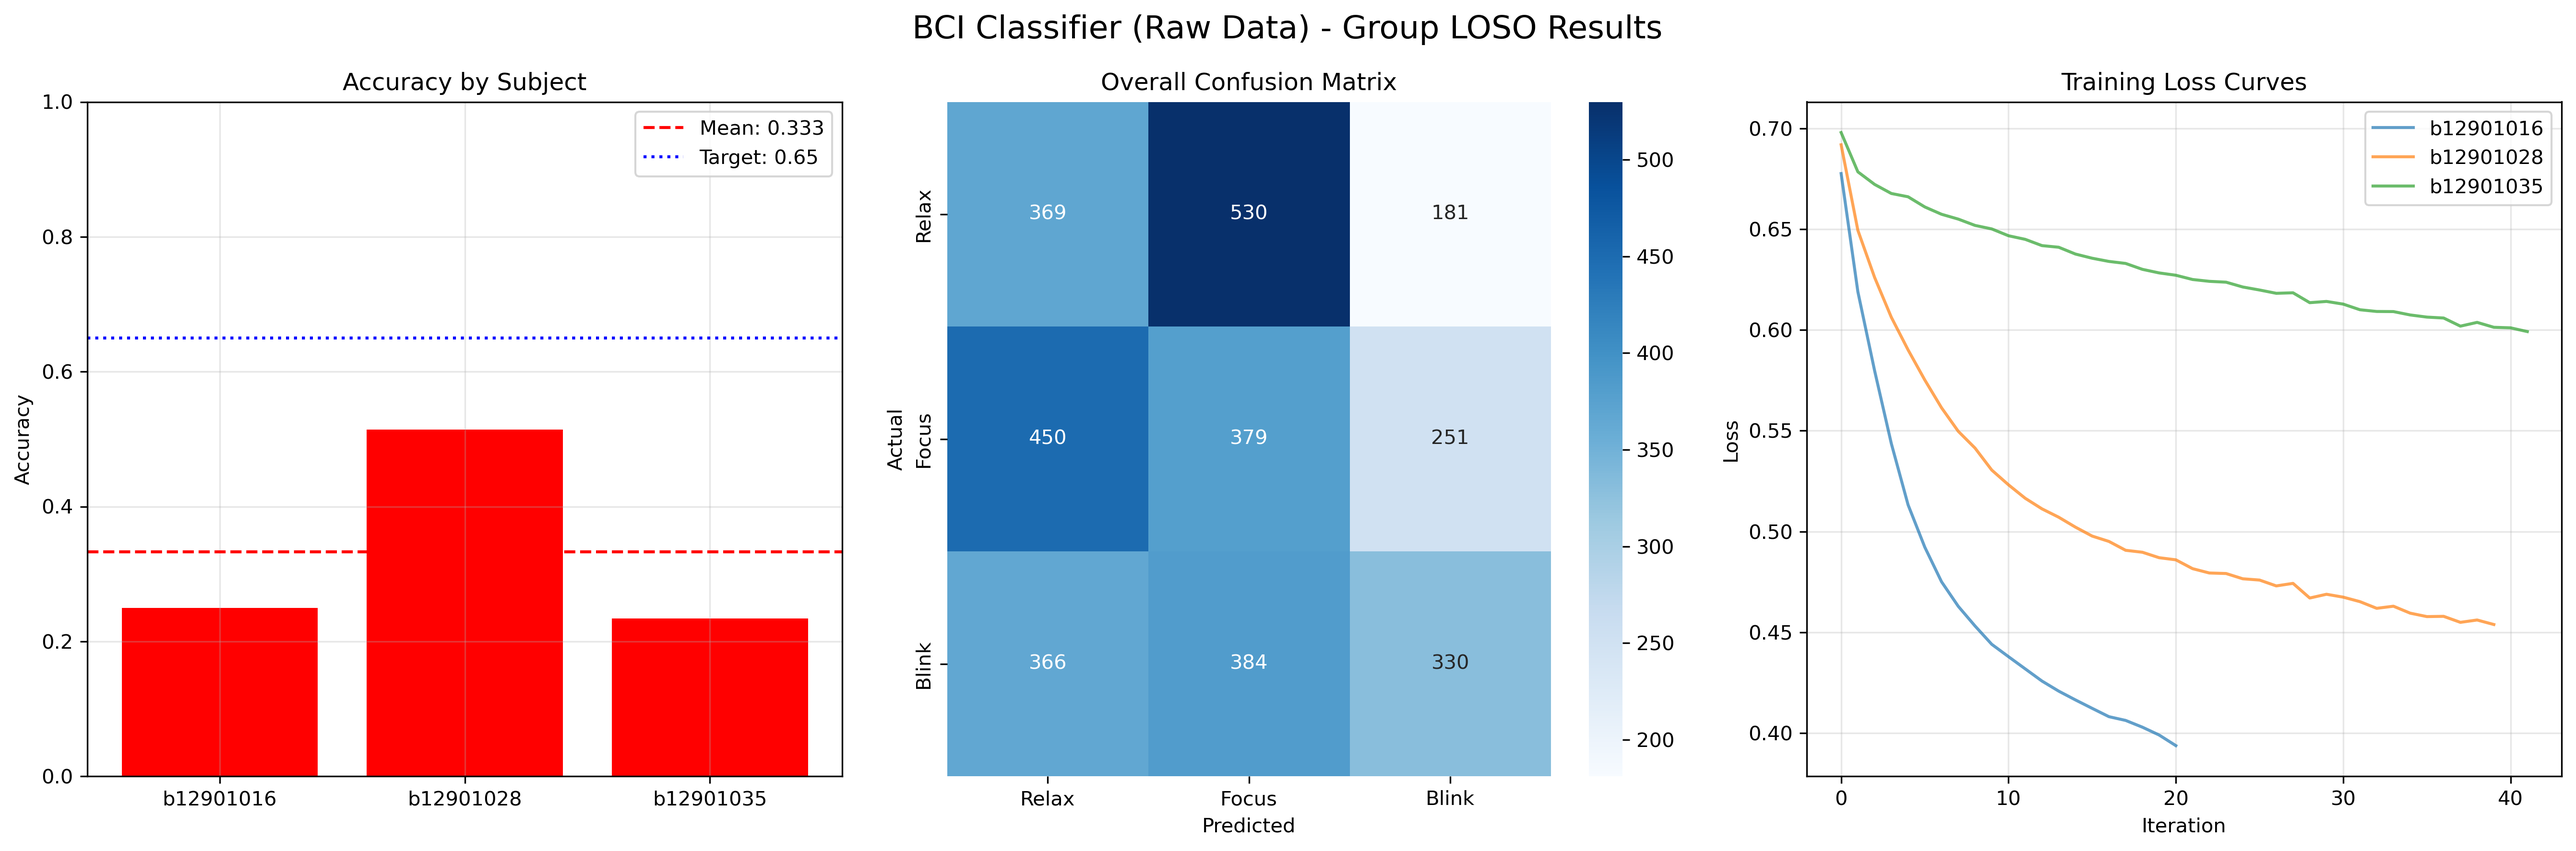
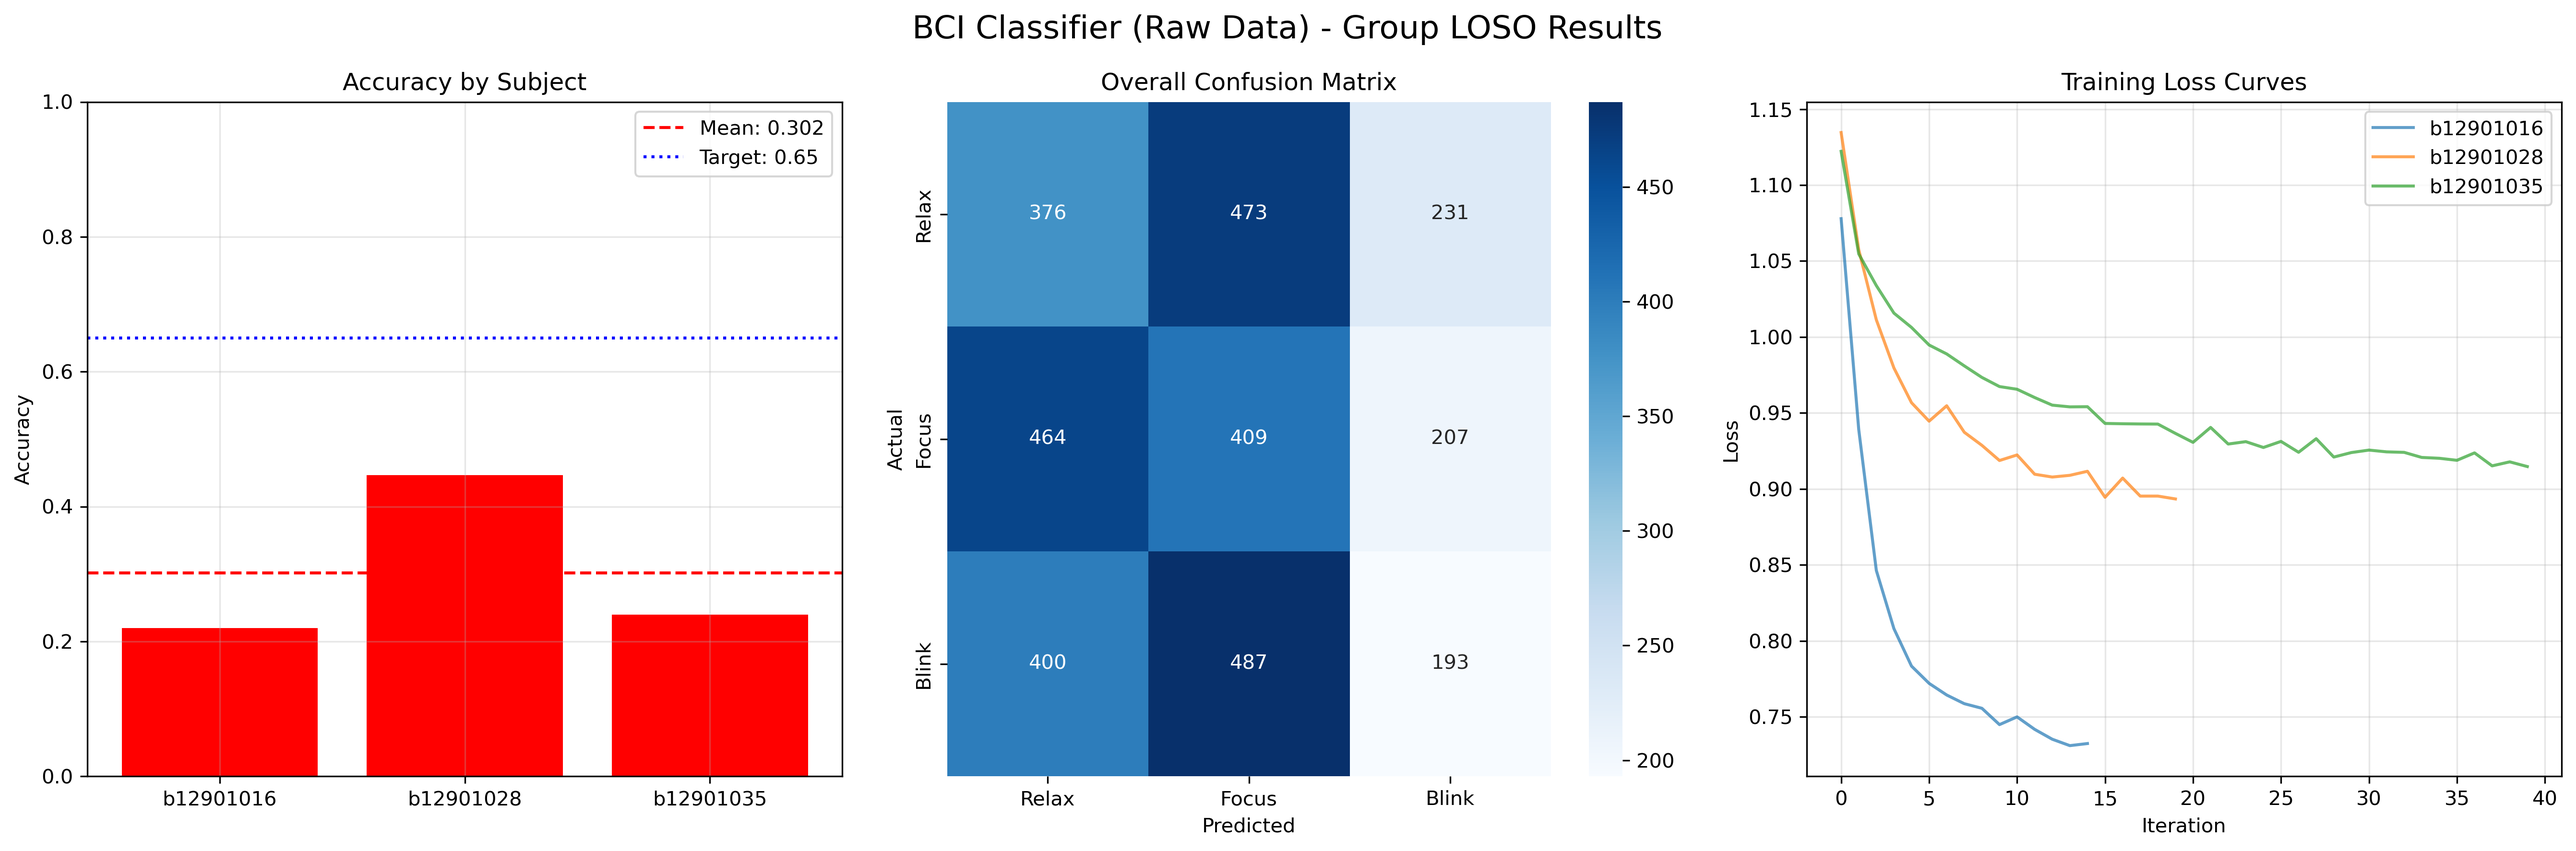
adding z-score ptp and Kuotosis; classifier controlled by MLP

diff --git a/main.py b/main.py
@@ -18,6 +18,7 @@ import warnings
 from scipy import signal
 from scipy.ndimage import median_filter
 import pywt
+from scipy import stats
 # ==========================================
 warnings.filterwarnings('ignore')
 
@@ -95,48 +96,36 @@ def bandpower(seg, fs, band):  ### [MODIFIED]
 
 
 def extract_features(segments):
-    """
-    Perform feature engineering on segments
-    """
     features = []
     bands = {
-        'Delta': (1, 4),
-        'Theta': (4, 8),
-        'Alpha': (8, 13),
-        'Beta': (13, 30),
-        'Gamma': (30, 50)
+        'Delta': (1, 4), 'Theta': (4, 8), 'Alpha': (8, 13), 'Beta': (13, 30), 'Gamma': (30, 50)
     }
 
     for seg in segments:
         feat = []
 
-        # === 1. 保留原始時域特徵 (Blink 判斷關鍵) === ### [MODIFIED]
-        # 必須在 Z-score 之前計算，保留原始振幅差距
-        ptp_amplitude = np.max(seg) - np.min(seg)
-        variance = np.var(seg)
-
-        # === 2. PER-SEGMENT NORMALIZATION (Z-SCORE) === ### [MODIFIED]
-        # 消除每個人的頭骨厚度、導電狀態造成的整體電壓差異
+        # 1. 逐段標準化 (Per-segment Z-score)
         seg_norm = (seg - np.mean(seg)) / (np.std(seg) + 1e-8)
 
-        # === 3. RELATIVE BANDPOWER === ### [MODIFIED]
+        # 2. 相對頻段能量 (使用標準化後的波形)
         abs_powers = []
         for b in bands.values():
-            # 注意：這裡改用標準化後的 seg_norm 來算能量
             bp = bandpower(seg_norm, Config.SAMPLING_RATE, b)
             abs_powers.append(bp)
         
-        # 計算總能量，並將各頻段能量轉為「比例 (0~1)」
         total_power = sum(abs_powers) + 1e-8
         for bp in abs_powers:
-            feat.append(bp / total_power) 
+            feat.append(bp / total_power)  # 加入 5 個相對能量
 
-        # === 4. 組合所有特徵 ===
-        feat.append(variance)      # index 5
-        feat.append(ptp_amplitude) # index 6 (稍後用來抓 Blink)
-        feat.append(np.mean(np.abs(seg_norm)))
-        feat.append(signal.skew(seg_norm)) if hasattr(signal, 'skew') else feat.append(0)
-        feat.append(signal.kurtosis(seg_norm)) if hasattr(signal, 'kurtosis') else feat.append(0)
+        # 3. 神經科學黃金指標
+        feat.append(abs_powers[2] / (abs_powers[3] + 1e-8)) # ABR (Alpha/Beta Ratio)
+        feat.append(abs_powers[1] / (abs_powers[3] + 1e-8)) # TBR (Theta/Beta Ratio)
+
+        # === 💥 4. 針對眨眼 (Blink) 的跨受測者強效特徵 === ### [MODIFIED]
+        # 放棄絕對電壓，改看 Z-score 後的「相對峰對峰值」與「波形尖銳度」
+        feat.append(np.max(seg_norm) - np.min(seg_norm)) # Z-score PTP (眨眼通常會異常飆高)
+        feat.append(stats.kurtosis(seg_norm))           # 峰度 Kurtosis (抓取眨眼的尖銳突波)
+        feat.append(np.log(np.var(seg) + 1e-8))          # 取 Log 的變異數 (壓縮個體極端差異)
 
         features.append(feat)
 
@@ -234,80 +223,42 @@ def load_all_subjects():
 class EnhancedBCIClassifier:
     def __init__(self):
         self.model = MLPClassifier(
-            hidden_layer_sizes=Config.HIDDEN_LAYERS,
-            max_iter=Config.MAX_ITER,
-            learning_rate_init=Config.LEARNING_RATE,
-            alpha=Config.ALPHA,
-            activation=Config.ACTIVATION,
-            solver=Config.SOLVER,
-            batch_size=Config.BATCH_SIZE,
-            early_stopping=Config.EARLY_STOPPING,
-            validation_fraction=Config.VALIDATION_FRACTION,
-            n_iter_no_change=Config.N_ITER_NO_CHANGE,
-            random_state=Config.RANDOM_STATE,
+            hidden_layer_sizes=(32, 16),  # ### [MODIFIED] 輕量化網路，防死背
+            max_iter=1000,
+            learning_rate_init=0.005,
+            alpha=0.1,                    # ### [MODIFIED] 增強 L2 正則化，強迫尋找泛化規律
+            activation='relu',
+            solver='adam',
+            batch_size=64,
+            early_stopping=True,
+            random_state=42,
             verbose=False
         )
         self.scaler = StandardScaler()
-        self.feature_selector = SelectKBest(f_classif, k=Config.N_FEATURES_SELECT) if Config.FEATURE_SELECTION else None
-        self.blink_threshold = 0  # === 新增：用來記憶 Blink 的專屬門檻 === ### [MODIFIED]
-        
+        # 特徵已經精煉過，直接全拿
+        self.feature_selector = SelectKBest(f_classif, k='all') 
+
     def fit(self, X, y):
-        # === 1. 計算 Blink 專屬物理門檻 === ### [MODIFIED]
-        # 特徵 index 6 是我們剛剛算的 ptp_amplitude
-        ptp_features = X[:, 6] 
-        blink_ptp = ptp_features[y == 2]
-        non_blink_ptp = ptp_features[y != 2]
-        
-        if len(blink_ptp) > 0 and len(non_blink_ptp) > 0:
-            # 抓非眨眼的高標(95%)與眨眼的低標(5%)，取中間值當作安全門檻
-            self.blink_threshold = (np.percentile(non_blink_ptp, 95) + np.percentile(blink_ptp, 5)) / 2
-        
-        # === 2. 濾除 Blink，只讓 MLP 學習純腦波 (Relax=0, Focus=1) === ### [MODIFIED]
-        mask_eeg = (y == 0) | (y == 1)
-        X_eeg = X[mask_eeg]
-        y_eeg = y[mask_eeg]
-        
-        X_scaled = self.scaler.fit_transform(X_eeg)
-        if self.feature_selector is not None:
-            self.feature_selector.k = min(Config.N_FEATURES_SELECT, X_scaled.shape[1])
-            X_selected = self.feature_selector.fit_transform(X_scaled, y_eeg)
-        else:
-            X_selected = X_scaled
-        
-        self.model.fit(X_selected, y_eeg)
+        # === 💥 [MODIFIED] 取消所有手動門檻，讓 MLP 學習全部 3 個類別 ===
+        X_scaled = self.scaler.fit_transform(X)
+        self.model.fit(X_scaled, y)
         return self
         
     def predict(self, X, smoothing_window=5):
-        predictions = np.zeros(len(X), dtype=int)
+        X_scaled = self.scaler.transform(X)
+        probs = self.model.predict_proba(X_scaled)
         
-        # === 1. 第一層過濾：用物理規則抓出 Blink === ### [MODIFIED]
-        ptp_features = X[:, 6]
-        is_blink = ptp_features > self.blink_threshold
-        predictions[is_blink] = 2  # 直接蓋章認定為 Blink (2)
+        # 多分類標準作法：取機率最大的類別
+        raw_predictions = np.argmax(probs, axis=1)
         
-        # === 2. 第二層過濾：剩下的交給 MLP 預測純腦波 === ### [MODIFIED]
-        is_eeg = ~is_blink
-        if np.any(is_eeg):
-            X_eeg = X[is_eeg]
-            X_scaled = self.scaler.transform(X_eeg)
-            if self.feature_selector is not None:
-                X_selected = self.feature_selector.transform(X_scaled)
-            else:
-                X_selected = X_scaled
-                
-            probs = self.model.predict_proba(X_selected)
-            # 由於 MLP 只被餵過 0 和 1，所以預測結果只會是 0 或 1
-            predictions[is_eeg] = np.argmax(probs, axis=1)
-            
-        # === 3. 整體時間平滑化 (Majority Vote) ===
+        # 加上時間多數決平滑化
         if smoothing_window > 1:
-            predictions = median_filter(predictions, size=smoothing_window)
+            raw_predictions = median_filter(raw_predictions, size=smoothing_window)
 
-        return predictions
+        return raw_predictions
     
     def get_loss_curve(self):
         return self.model.loss_curve_ if hasattr(self.model, 'loss_curve_') else []
-
 
 def leave_one_subject_out_validation():
     print("\nStarting Leave-One-Subject-Out (LOSO) Cross-Validation...")
